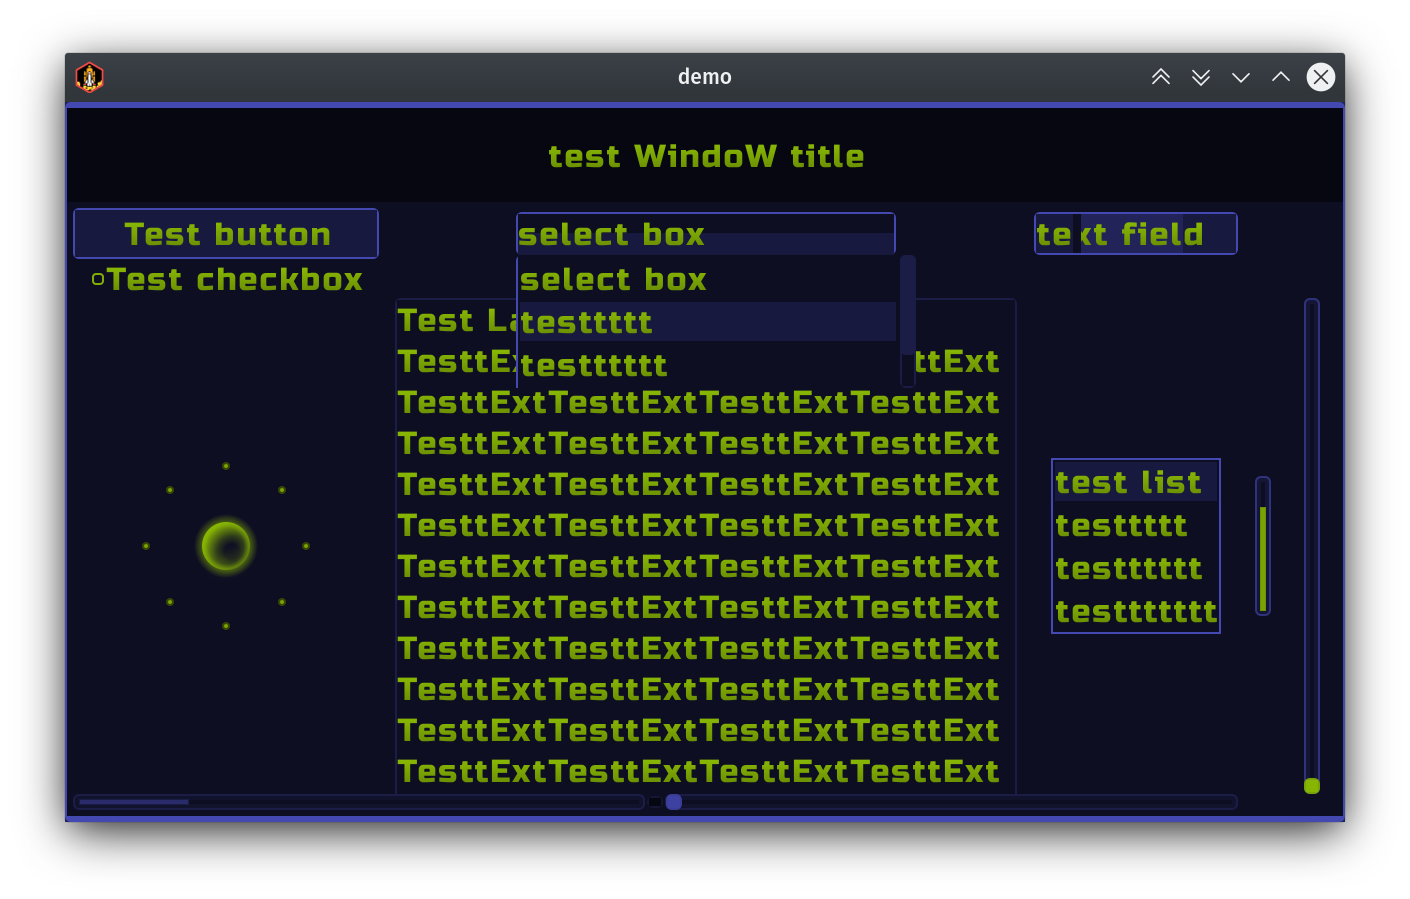
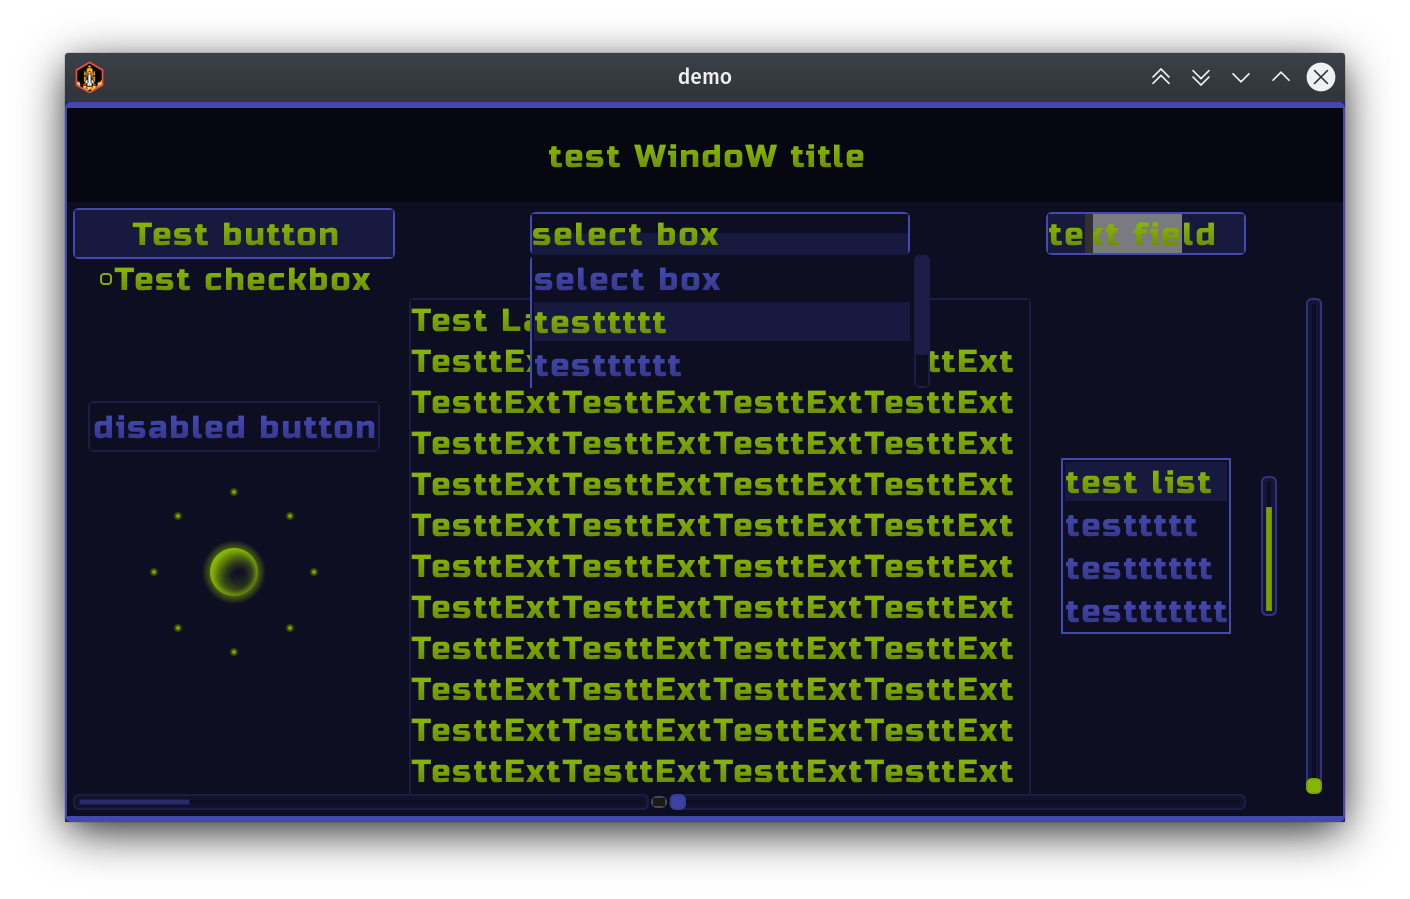
acid restyled

diff --git a/demo13x/core/src/main/kotlin/colorstepskin/StyleCreatorAcid.kt b/demo13x/core/src/main/kotlin/colorstepskin/StyleCreatorAcid.kt
@@ -123,7 +123,7 @@ fun createAcidStyle(css:ColorStepSkin){
         
         /*textAcid*/
         for (hue in 0..100){
-            val hueL = cbox.acid.colorPair(hue)[0]//light hue based
+//            val hueL = cbox.acid.colorPair(hue)[0]//light hue based
             val opoL = cbox.acid.colorPair(hue)[1]//light oposite
             val hueD = cbox.acid.colorPair(hue, true)[0]//dark hue based
             val opoD = cbox.acid.colorPair(hue, true)[1]//dark oposite
@@ -244,83 +244,85 @@ fun createAcidStyle(css:ColorStepSkin){
             val opoL = cbox.acid.colorPair(hue)[1]//light oposite
             val opoD = cbox.acid.colorPair(hue, true)[1]//dark oposite
             
-            scrollFonAcid[hue].vScrollKnob = newDrawable(getDrawable("inverted-vscrollknob"), opoD)
-            scrollFonAcid[hue].vScroll = newDrawable(getDrawable("inverted-vscroll"), opoD)
-            scrollFonAcid[hue].hScrollKnob = newDrawable(getDrawable("inverted-hscrollknob"), opoD)
-            scrollFonAcid[hue].hScroll = newDrawable(getDrawable("inverted-hscroll"), opoD)
+            scrollFonAcid[hue].vScrollKnob = newDrawable(getDrawable("inverted-vscrollknob"), hueD)
+            scrollFonAcid[hue].vScroll = newDrawable(getDrawable("inverted-vscroll"), hueD)
+            scrollFonAcid[hue].hScrollKnob = newDrawable(getDrawable("inverted-hscrollknob"), hueD)
+            scrollFonAcid[hue].hScroll = newDrawable(getDrawable("inverted-hscroll"), hueD)
             
-            splitFonAcid[hue].handle = newDrawable(getDrawable("inverted-splitpane"), hueL)
+            splitFonAcid[hue].handle = newDrawable(getDrawable("inverted-splitpane"), hueD)
             
-            treeFonAcid[hue].minus = newDrawable(getDrawable("inverted-tree-minus"), opoD)
-            treeFonAcid[hue].plus = newDrawable(getDrawable("inverted-tree-plus"), opoD)
-            treeFonAcid[hue].background = newDrawable(getDrawable("inverted-tree-background"), hueL)
-            treeFonAcid[hue].selection = newDrawable(getDrawable("inverted-tree-selection"), hueL)
+            treeFonAcid[hue].minus = newDrawable(getDrawable("inverted-tree-minus"), opoL)
+            treeFonAcid[hue].plus = newDrawable(getDrawable("inverted-tree-plus"), opoL)
+            treeFonAcid[hue].background = newDrawable(getDrawable("inverted-tree-background"), hueD)
+            treeFonAcid[hue].selection = newDrawable(getDrawable("inverted-tree-selection"), hueD)
             
-            labelFonAcid[hue].background = newDrawable(getDrawable("inverted-label-background"), hueL)
-            labelFonAcid[hue].font = defaultFontFon
-            labelFonAcid[hue].fontColor = opoD
+            labelFonAcid[hue].background = newDrawable(getDrawable("inverted-label-background"), hueD)
+            labelFonAcid[hue].font = defaultFont
+            labelFonAcid[hue].fontColor = opoL
             
-            buttonFonAcid[hue].up = newDrawable(getDrawable("inverted-button-up"), hueL)
-            buttonFonAcid[hue].down = newDrawable(getDrawable("inverted-button-down"), hueL)
-            buttonFonAcid[hue].checked = newDrawable(getDrawable("inverted-button-checked"), hueL)
-            buttonFonAcid[hue].disabled = newDrawable(getDrawable("inverted-button-disabled"), hueL)
+            buttonFonAcid[hue].up = newDrawable(getDrawable("inverted-button-up"), hueD)
+            buttonFonAcid[hue].down = newDrawable(getDrawable("inverted-button-down"), hueD)
+            buttonFonAcid[hue].checked = newDrawable(getDrawable("inverted-button-checked"), hueD)
+            buttonFonAcid[hue].disabled = newDrawable(getDrawable("inverted-button-disabled"), hueD)
             
-            tbuttonFonAcid[hue].up = newDrawable(getDrawable("inverted-button-up"), hueL)
-            tbuttonFonAcid[hue].down = newDrawable(getDrawable("inverted-button-down"), hueL)
-            tbuttonFonAcid[hue].checked = newDrawable(getDrawable("inverted-button-checked"), hueL)
-            tbuttonFonAcid[hue].disabled = newDrawable(getDrawable("inverted-button-disabled"), hueL)
-            tbuttonFonAcid[hue].font = defaultFontFon
-            tbuttonFonAcid[hue].fontColor = opoD
+            tbuttonFonAcid[hue].up = newDrawable(getDrawable("inverted-button-up"), hueD)
+            tbuttonFonAcid[hue].down = newDrawable(getDrawable("inverted-button-down"), hueD)
+            tbuttonFonAcid[hue].checked = newDrawable(getDrawable("inverted-button-checked"), hueD)
+            tbuttonFonAcid[hue].disabled = newDrawable(getDrawable("inverted-button-disabled"), hueD)
+            tbuttonFonAcid[hue].font = defaultFont
+            tbuttonFonAcid[hue].fontColor = opoL
+            tbuttonFonAcid[hue].disabledFontColor = hueD
             
-            checkFonAcid[hue].checkboxOn = newDrawable(getDrawable("inverted-check-on"), opoD)
-            checkFonAcid[hue].checkboxOff = newDrawable(getDrawable("inverted-check-off"), opoD)
-            checkFonAcid[hue].checkboxOffDisabled = newDrawable(getDrawable("inverted-check-off"), hueL)
-            checkFonAcid[hue].checkboxOnDisabled = newDrawable(getDrawable("inverted-check-on"), hueL)
-//            checkFonAcid[hue].disabled = newDrawable(getDrawable("inverted-check-disabled"), hueL)
-            checkFonAcid[hue].font = defaultFontFon
+            checkFonAcid[hue].checkboxOn = newDrawable(getDrawable("inverted-check-on"), hueL)
+            checkFonAcid[hue].checkboxOff = newDrawable(getDrawable("inverted-check-off"), hueL)
+            checkFonAcid[hue].checkboxOffDisabled = newDrawable(getDrawable("inverted-check-off"), hueD)
+            checkFonAcid[hue].checkboxOnDisabled = newDrawable(getDrawable("inverted-check-on"), hueD)
+            checkFonAcid[hue].font = defaultFont
             checkFonAcid[hue].fontColor = opoL
-            checkFonAcid[hue].disabledFontColor = hueL
+            checkFonAcid[hue].disabledFontColor = hueD
             
-            tfieldFonAcid[hue].cursor = newDrawable(getDrawable("inverted-textfield-cursor"), opoD)
-            tfieldFonAcid[hue].selection = newDrawable(getDrawable("inverted-textfield-selection"), opoL)
-            tfieldFonAcid[hue].background = newDrawable(getDrawable("inverted-textfield-background"), hueL)
-            tfieldFonAcid[hue].disabledBackground = newDrawable(getDrawable("inverted-textfield-disabled"), hueL)
-            tfieldFonAcid[hue].focusedBackground = newDrawable(getDrawable("inverted-textfield-focused"), hueL)
-            tfieldFonAcid[hue].font = defaultFontFon
-            tfieldFonAcid[hue].fontColor = opoD
+            tfieldFonAcid[hue].cursor = newDrawable(getDrawable("textfield-cursor"), opoL)
+            tfieldFonAcid[hue].selection = newDrawable(getDrawable("inverted-textfield-selection"), opoD)
+            tfieldFonAcid[hue].background = newDrawable(getDrawable("inverted-textfield-background"), hueD)
+            tfieldFonAcid[hue].disabledBackground = newDrawable(getDrawable("inverted-textfield-disabled"), hueD)
+            tfieldFonAcid[hue].focusedBackground = newDrawable(getDrawable("inverted-textfield-focused"), hueD)
+            tfieldFonAcid[hue].font = defaultFont
+            tfieldFonAcid[hue].fontColor = opoL
+            tfieldFonAcid[hue].disabledFontColor = hueD
             /*because style class is same and inside Skin.add() next just override previous. And there is some shit inside,
             * because if no bottom syntax for textarea style , in time of creation textfield app crushed, looks like textfield use
             * textarea style but this style class named as TextFieldStyle etc , not sure. muddy place , but work finally*/
             tareaFonAcid[hue] = tfieldFonAcid[hue]
             
-            listFonAcid[hue].background = newDrawable(getDrawable("inverted-list-background"), hueL)
-            listFonAcid[hue].selection = newDrawable(getDrawable("inverted-list-selection"), hueL)
-            listFonAcid[hue].down = newDrawable(getDrawable("inverted-list-down"), hueL)
-            listFonAcid[hue].font = defaultFontFon
-            listFonAcid[hue].fontColorSelected = opoD
-            listFonAcid[hue].fontColorUnselected = opoD
+            listFonAcid[hue].background = newDrawable(getDrawable("inverted-list-background"), hueD)
+            listFonAcid[hue].selection = newDrawable(getDrawable("inverted-list-selection"), hueD)
+            listFonAcid[hue].down = newDrawable(getDrawable("inverted-list-down"), hueD)
+            listFonAcid[hue].font = defaultFont
+            listFonAcid[hue].fontColorSelected = opoL
+            listFonAcid[hue].fontColorUnselected = hueL
             
             selectFonAcid[hue].listStyle = listFonAcid[hue]
             selectFonAcid[hue].scrollStyle = scrollFonAcid[hue]
-            selectFonAcid[hue].background = newDrawable(getDrawable("inverted-select-background"), hueL)
-            selectFonAcid[hue].backgroundDisabled = newDrawable(getDrawable("inverted-select-disabled"), hueL)
-            selectFonAcid[hue].font = defaultFontFon
-            selectFonAcid[hue].fontColor = opoD
+            selectFonAcid[hue].background = newDrawable(getDrawable("inverted-select-background"), hueD)
+            selectFonAcid[hue].backgroundDisabled = newDrawable(getDrawable("inverted-select-disabled"), hueD)
+            selectFonAcid[hue].font = defaultFont
+            selectFonAcid[hue].fontColor = opoL
+            selectFonAcid[hue].disabledFontColor = hueD
             
-            progressFonAcid[hue].background = newDrawable(getDrawable("inverted-progress-background"), hueL)
-            progressFonAcid[hue].disabledBackground = newDrawable(getDrawable("inverted-progress-disabledbackground"), hueL)
+            progressFonAcid[hue].background = newDrawable(getDrawable("inverted-progress-background"), hueD)
+            progressFonAcid[hue].disabledBackground = newDrawable(getDrawable("inverted-progress-disabledbackground"), hueD)
             progressFonAcid[hue].knobBefore = newDrawable(getDrawable("inverted-progress-knobbefore"), opoD)
-            progressFonAcid[hue].disabledKnobBefore = newDrawable(getDrawable("inverted-progress-disabledknobbefore"), hueL)
+            progressFonAcid[hue].disabledKnobBefore = newDrawable(getDrawable("inverted-progress-disabledknobbefore"), hueD)
             
             sliderFonAcid[hue].knob = newDrawable(getDrawable("inverted-slider-knob"), opoD)
-            sliderFonAcid[hue].disabledKnob = newDrawable(getDrawable("inverted-slider-disabledknob"), hueL)
-            sliderFonAcid[hue].background = newDrawable(getDrawable("inverted-progress-background"), hueL)
-            sliderFonAcid[hue].disabledBackground = newDrawable(getDrawable("inverted-progress-disabledbackground"), hueL)
+            sliderFonAcid[hue].disabledKnob = newDrawable(getDrawable("inverted-slider-disabledknob"), hueD)
+            sliderFonAcid[hue].background = newDrawable(getDrawable("inverted-progress-background"), hueD)
+            sliderFonAcid[hue].disabledBackground = newDrawable(getDrawable("inverted-progress-disabledbackground"), hueD)
             
             windowFonAcid[hue].background = newDrawable(getDrawable("inverted-window-background"), hueD)
             windowFonAcid[hue].stageBackground = newDrawable(getDrawable("inverted-window-stagebackground"), hueD)
-            windowFonAcid[hue].titleFont = defaultFontFon
-            windowFonAcid[hue].titleFontColor = opoD
+            windowFonAcid[hue].titleFont = defaultFont
+            windowFonAcid[hue].titleFontColor = opoL
             /*same shit as for textfield, window widget use dialog widget style which class name is WindowStyle*/
             dialogFonAcid[hue] = windowFonAcid[hue]
             

diff --git a/demo13x/core/src/main/kotlin/io/guthub/healingdrawing/demo/Demo.kt b/demo13x/core/src/main/kotlin/io/guthub/healingdrawing/demo/Demo.kt
@@ -31,12 +31,14 @@ class Demo : ApplicationAdapter() {
     private  var eng_cbox: CheckBox? = null
     private  var eng_label: Label? = null
     private  var eng_textfield: TextField? = null
+    private  var eng_textfield_disabled: TextField? = null
     private  var eng_textarea:TextArea? = null
     private  var scroll:ScrollPane? = null
     private  var listArray:UIArray<String> = UIArray()
     private var list:UIList<String>? = null
     private  var selectboxArray:UIArray<String> = UIArray()
     private var selectbox:SelectBox<String>? = null
+    private var selectbox_disabled:SelectBox<String>? = null
     private var progress:ProgressBar? = null
     private var progressv:ProgressBar? = null
     private  var slider:Slider? = null
@@ -61,11 +63,12 @@ class Demo : ApplicationAdapter() {
      *
      * Other styles is manually prebalanced hue offset scheme based.
      * */
-    private val styleName = "1"
+    private val styleName = "51"
     
     override fun create() {
         stage = Stage(FitViewport(1280f, 720f))
         Gdx.input.inputProcessor = stage
+//        stage!!.isDebugAll = true
         
         css.prepare()
         table = Table()
@@ -75,8 +78,7 @@ class Demo : ApplicationAdapter() {
         println(bs.fontColor)
         
         eng_button = TextButton("", css, styleName)
-        eng_button!!.setText("Test button")
-//        eng_button!!.isDisabled = true
+        eng_button!!.setText("Text button")
         eng_button!!.addListener(object : ClickListener() {
             override fun clicked(event: InputEvent, x: Float, y: Float) {
                 eng_cbox!!.isDisabled = if (eng_button!!.isChecked) true else false
@@ -92,7 +94,7 @@ class Demo : ApplicationAdapter() {
 //        table!!.row()
         
         eng_cbox = CheckBox("",css, styleName)
-        eng_cbox!!.setText("Test checkbox")
+        eng_cbox!!.setText("checkbox")
 //        eng_cbox!!.isDisabled = true
         
         eng_label = Label("", css, styleName)
@@ -111,7 +113,8 @@ class Demo : ApplicationAdapter() {
                 "TesttExt")
     
         eng_textfield = TextField("text field", css, styleName)
-//        eng_textfield!!.isDisabled = true
+        eng_textfield_disabled = TextField("tfield disabled", css, styleName)
+        eng_textfield_disabled!!.isDisabled = true
 
         eng_textarea = TextArea("test\ntext\narea",css, styleName)
 
@@ -136,7 +139,10 @@ class Demo : ApplicationAdapter() {
         selectbox = SelectBox(css, styleName)
         selectbox!!.setItems(selectboxArray)
         selectbox!!.maxListCount = 3
-//        selectbox!!.isDisabled = true
+        
+        selectbox_disabled = SelectBox(css, styleName)
+        selectbox_disabled!!.setItems("selectbox disabled")
+        selectbox_disabled!!.isDisabled = true
 
         progress = ProgressBar(0f,5f,1f,false,css, styleName)
         progress!!.value = 1f
@@ -150,7 +156,7 @@ class Demo : ApplicationAdapter() {
         
         sliderv = Slider(0f,10f,1f,true,css, styleName)
         
-        eng_button_disabled = TextButton("disabled button", css, styleName)
+        eng_button_disabled = TextButton("button disabled", css, styleName)
         eng_button_disabled!!.isDisabled = true
         
         touchpad = Touchpad(40f, css, styleName)
@@ -162,11 +168,16 @@ class Demo : ApplicationAdapter() {
 //        table!!.add(eng_label).expandX().expandY()//.fillX().fillY() //used in scroll
         
         table!!.add(eng_button).expand().fill()
-        table!!.add(selectbox).expandX()
-        table!!.add(eng_textfield).expandX().expandY().fillX()
+        table!!.add(selectbox_disabled).expandX()
+        table!!.add(eng_textfield_disabled).expand().fillX().colspan(3)
         table!!.row()
         table!!.add(eng_cbox).expandX().expandY()//.fillX().fillY()
+        table!!.row()
+        table!!.add()
+        table!!.add(selectbox)
+        table!!.add(eng_textfield).expand().fillX().colspan(3)
         
+        table!!.row()
         val bandt = Table()
         bandt.add(eng_button_disabled)
         bandt.row()
